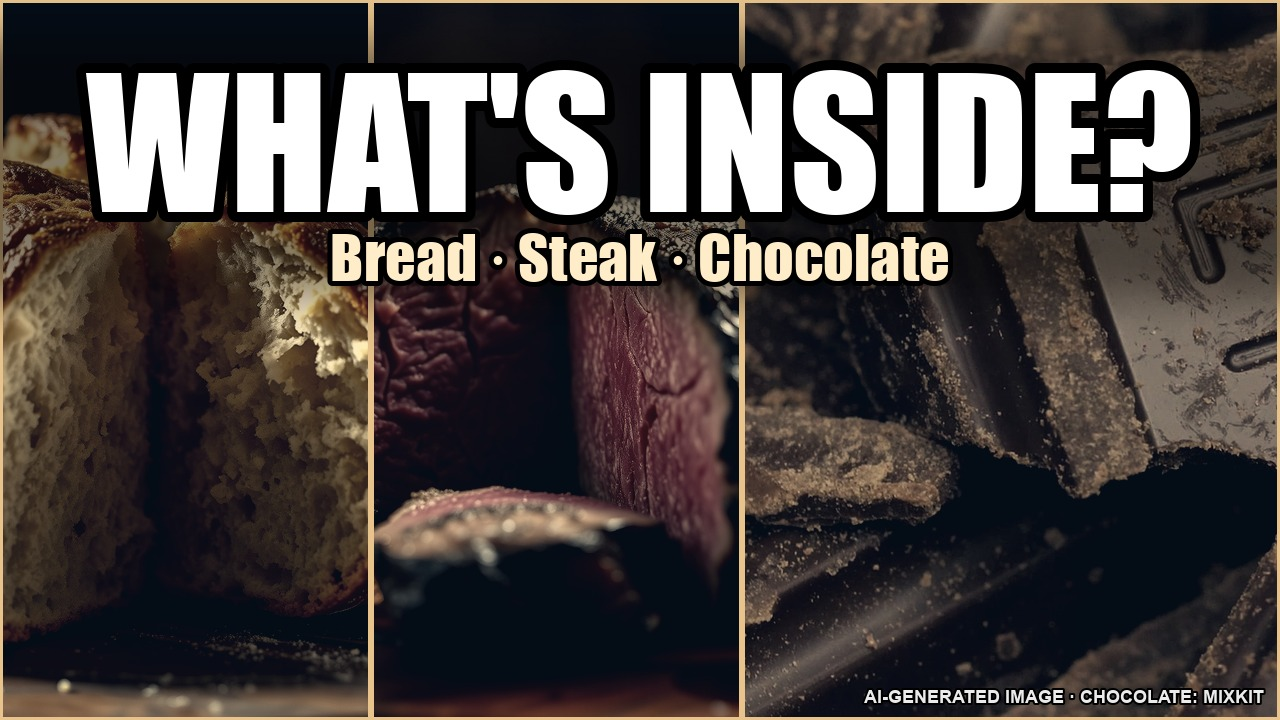
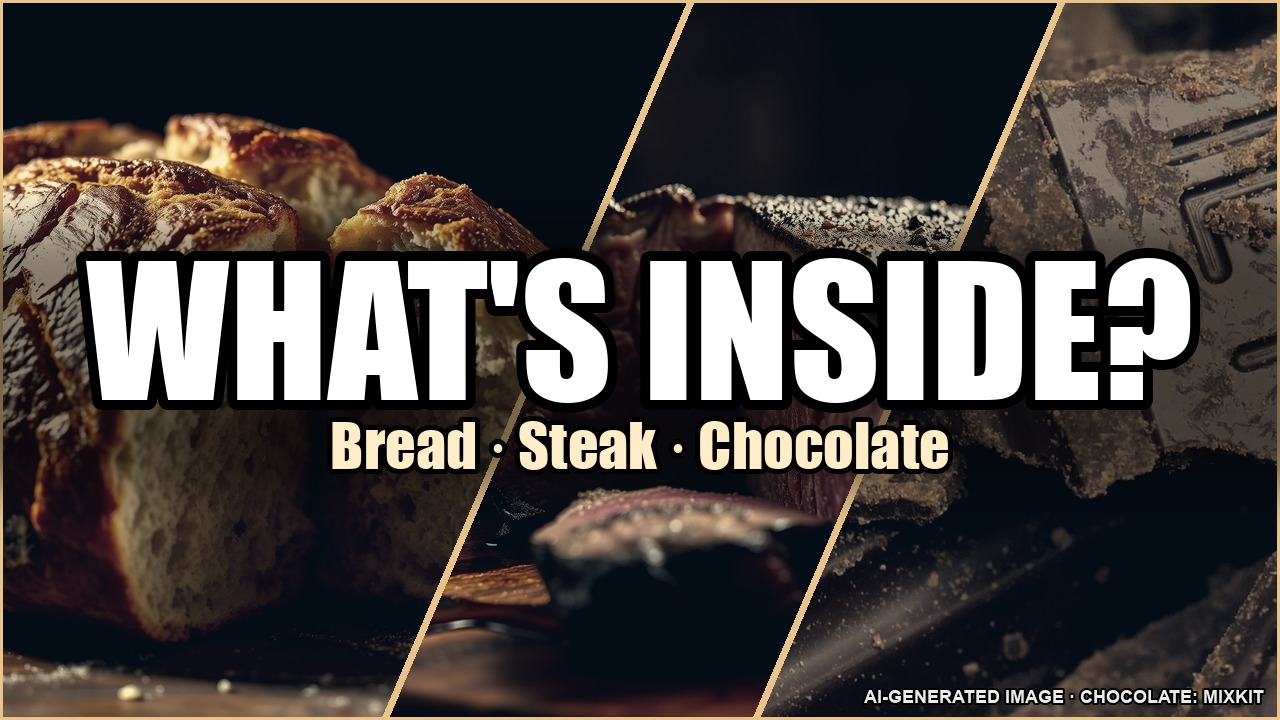
food: thumbnail F published as variant A (D, E as B, C), owner 13 Oct 2026; spec records the pick and the demand note
Claude-Session: https://claude.ai/code/session_01R22rj3PRcpGqmWiUXBiZtb

diff --git a/visuals/thumb_triptych.py b/visuals/thumb_triptych.py
@@ -8,10 +8,11 @@ variants differ in COMPOSITION (vertical panels, horizontal strips, a diagonal
 split; headline placement; which food is largest), never in the words.
 
 THE REFERENCE EXAMPLE (owner's pick, 13 Oct 2026 - "thumbnail F" of the food
-round-2 sample, variant C of channel/thumbnails/variants/why-bread-rises-steak-
+round-2 sample, PUBLISHED as variant A of channel/thumbnails/variants/why-bread-rises-steak-
 browns-chocolate-snaps): REFERENCE below - a DIAGONAL split, the FIRST subject
 (bread) largest, the headline CENTRED over the panels, the subject line beneath.
-The vertical-panels and horizontal-strips compositions (D, E) remain valid.
+The vertical-panels and horizontal-strips compositions (D, E) remain valid and
+are the set's B and C (Test & Compare; the demand lane's second packaging).
 
 THE WIDENED CONTRACT - visuals/thumb_contract.verify() hands any set whose
 contract.json says `"layout": "triptych"` to verify() here, which re-checks
@@ -62,7 +63,7 @@ HEAD_MIN_PX, HEAD_MIN_CONTRAST = 12, 4.5
 SUB_MIN_PX, SUB_MIN_CONTRAST = 6, 3.0
 LAYOUTS = ("vertical", "horizontal", "diagonal")
 REFERENCE = {"layout": "diagonal", "largest": 0, "place": "center"}   # the owner's pick (F)
-REFERENCE_SET = ("why-bread-rises-steak-browns-chocolate-snaps", "C")
+REFERENCE_SET = ("why-bread-rises-steak-browns-chocolate-snaps", "A")   # F is variant A (owner, 13 Oct 2026)
 TW, TH = T.TW, T.TH
 
 

diff --git a/visuals/food_episode.py b/visuals/food_episode.py
@@ -278,7 +278,7 @@ def stitch(script: Path, voice_root: Path, work: Path, final: Path) -> dict:
     spec = {
         **{k: v for k, v in prior.items() if k in ("_why", "slug", "domain", "parts",
                                                     "title_owner", "segments", "altered_content_why",
-                                                    "demand_note")},
+                                                    "demand_note", "thumbnail")},
         "kind": "food-episode", "slug": slug, "domain": "food-science",
         "episode_script": str(script.relative_to(ROOT)) if script.is_relative_to(ROOT) else str(script),
         "preset": food.PRESET["id"], "grade": food.FOOD_GRADE["id"],
